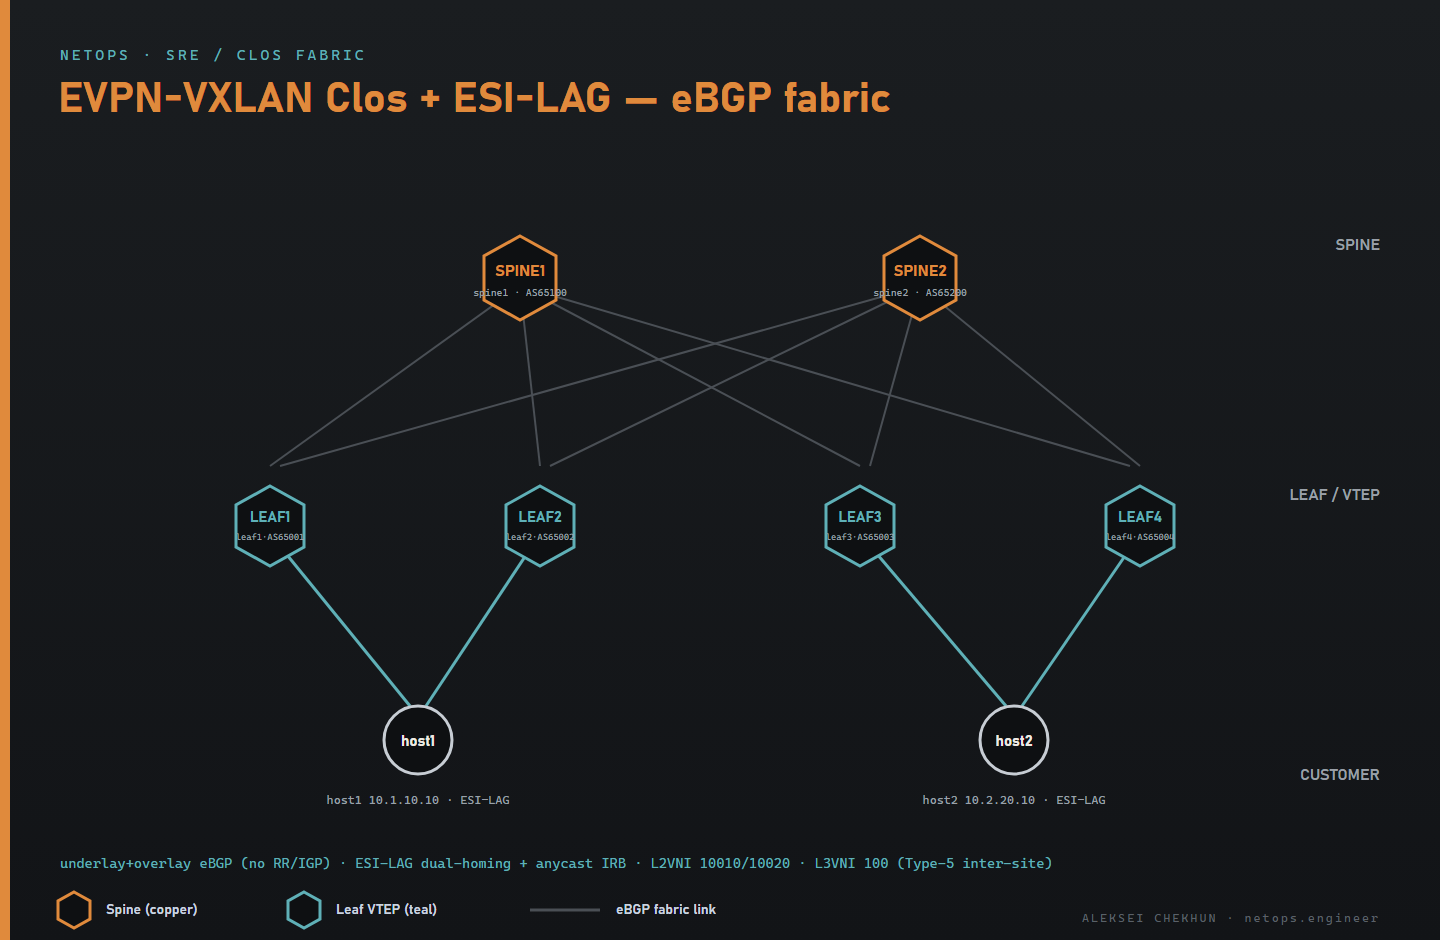
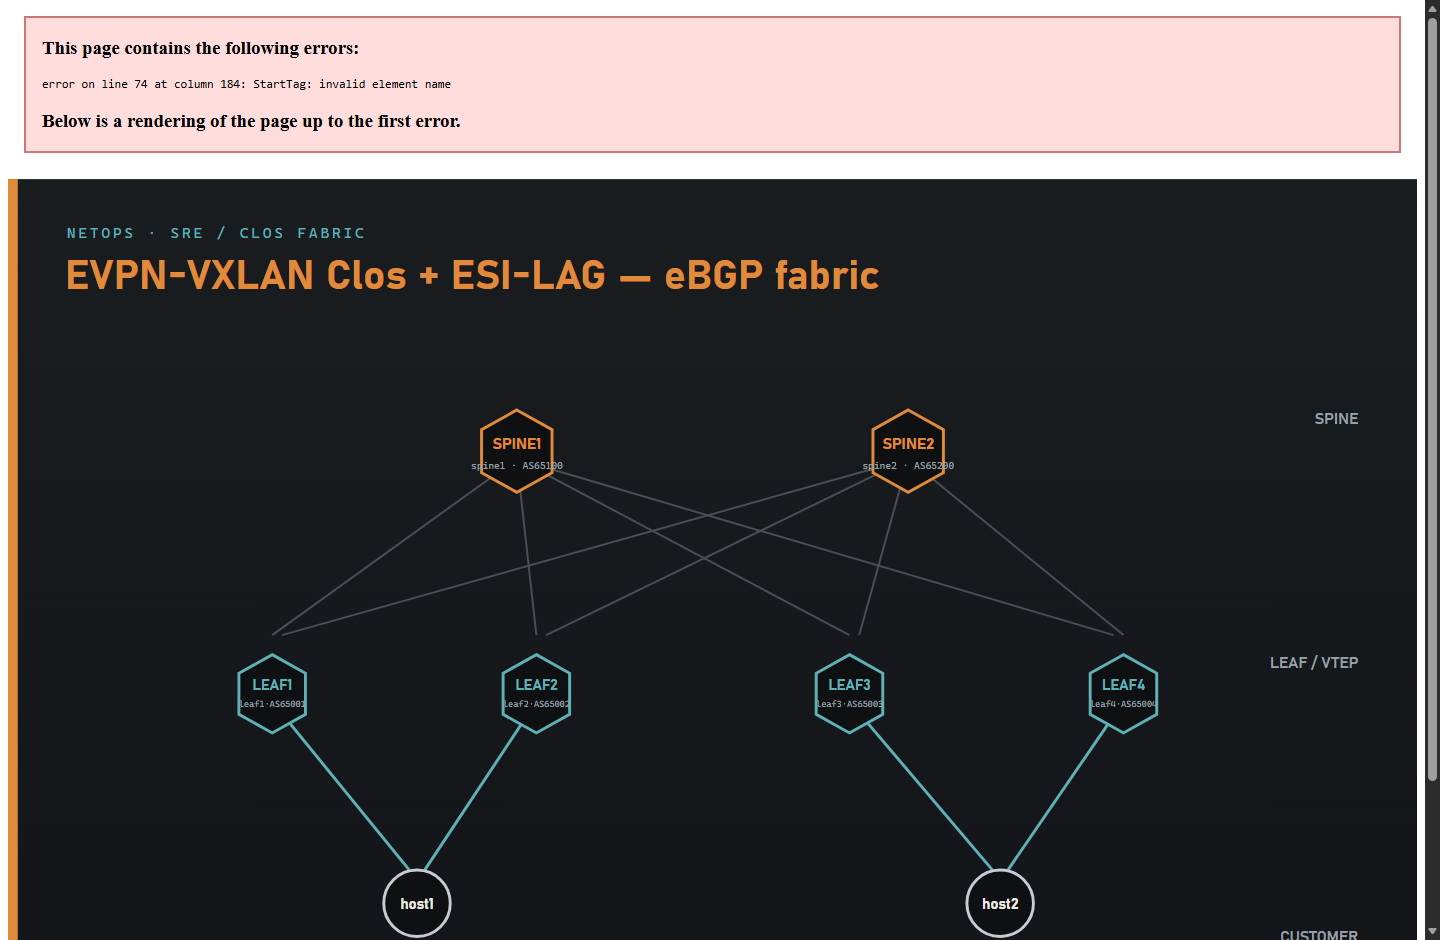
refactor(evpn): pivot to bridged stretched-L2VNI (drop symmetric-IRB-on-ESI)
Root cause of the dual-homed inter-site drops: FRR EVPN-MH does not reliably
sync the host ARP/neighbor across ES peers for the symmetric-IRB routed case
(kernel neigh FAILED on the non-active leaf; both arp-cache entries local-inactive)
-> asymmetric ECMP return hits a leaf with no ARP for the host and is dropped.

Fix: collapse to ONE stretched L2VNI 10010 (10.10.10.0/24). host1<->host2 is now
bridged EVPN Type-2 (MAC-based, no per-leaf ARP-to-route dependency) — the same
machinery as host->gw which was always solid. Full ESI-LAG kept on both sites.

- leaves: L2-only (br10 + vxlan10 vni10010 + anycast gw 10.10.10.1 + ESI bond);
  baked evpn uplink on fabric links; removed L3VNI 100 / VRF CUST / vxlan100
- hosts: same subnet 10.10.10.11 / .22
- safe-reboot probe 10.10.10.11 -> .22 ; compliance asserts ESI-LAG instead of VRF
- README + diagram updated to the bridged stretched-L2VNI model

diff --git a/README.md b/README.md
@@ -3,7 +3,7 @@
 **3-stage EVPN-VXLAN data-center Clos with ESI-LAG multihoming — no kernel modules, no MPLS, runs anywhere Docker runs.**
 
 A self-contained **network operations lab** you can run on a laptop, NAS or EVE-NG host.
-It builds a realistic **DC fabric**: 2 spines + 4 leaves, **eBGP underlay + eBGP EVPN overlay** (no IGP, no route reflectors), **anycast IRB** gateways, **ESI-LAG** dual-homed servers, and **EVPN Type-5** routing between sites — plus an **Ansible pipeline** that reboots the fabric with **proven zero packet loss** (drain → reboot → verify → restore, one device at a time).
+It builds a realistic **DC fabric**: 2 spines + 4 leaves, **eBGP underlay + eBGP EVPN overlay** (no IGP, no route reflectors), **anycast gateway**, **ESI-LAG** dual-homed servers on a **stretched L2VNI** (bridged EVPN Type-2) — plus an **Ansible pipeline** that reboots the fabric with **proven zero packet loss** (drain → reboot → verify → restore, one device at a time).
 
 > **vs. the MPLS variant:** VXLAN is plain UDP/4789 over the eBGP IP underlay. No `mpls_router` kernel module, no `net.mpls.platform_labels` sysctl — it just works wherever Docker runs.
 
@@ -30,12 +30,12 @@ cd ansible && ansible-galaxy collection install -r requirements.yml && ansible-p
 
 Watch it live — open a second terminal while step 4 runs:
 ```bash
-docker exec clab-stage1-host1 ping 10.2.20.10
+docker exec clab-stage1-host1 ping 10.10.10.22
 ```
 The playbook drains → reboots → restores each router one at a time and **asserts 0% packet loss** at the end.
 Tear it all down: `sudo containerlab destroy -t clab/stage1.clab.yml --cleanup`
 
-> **`tools/init-evpn.sh` = verification.** In FRR 10.6 the eBGP spines relay EVPN natively and the L3VNI comes up at boot, so no post-deploy fix is normally needed. The script prints the spine EVPN peers, the Ethernet Segments (ESI-LAG/DF) and the host1->host2 ping. If a boot did not converge, run `FIX=1 bash tools/init-evpn.sh` to restart leaf FRR.
+> **`tools/init-evpn.sh` = verification.** In FRR 10.6 the eBGP spines relay EVPN natively and the L2VNI comes up at boot, so no post-deploy fix is normally needed. The script prints the spine EVPN peers, the Ethernet Segments (ESI-LAG/DF) and the host1↔host2 ping. If a boot did not converge, run `FIX=1 bash tools/init-evpn.sh` to restart leaf FRR.
 
 ---
 
@@ -47,12 +47,12 @@ Tear it all down: `sudo containerlab destroy -t clab/stage1.clab.yml --cleanup`
 
 - **3-stage Clos** — 2 spines (`spine1`,`spine2`), 4 leaves (`leaf1`–`leaf4`). No route reflectors, no IGP.
 - **Spines** (AS `65100` / `65200`) — eBGP EVPN relay; no VTEP, no VRF. Spines don't interconnect.
-- **Leaves** (AS `65001`–`65004`) — **VTEPs** with **anycast IRB**, each dual-uplinked to both spines.
+- **Leaves** (AS `65001`–`65004`) — **VTEPs** with an **anycast gateway**, each dual-uplinked to both spines.
 - **Underlay:** **eBGP** on `/31` fabric links, loopbacks via `redistribute connected`, `maximum-paths ebgp`.
 - **Overlay:** **eBGP `l2vpn-evpn`** on the *same* sessions (spines relay natively in FRR 10.6 — no `retain route-target`).
 - **ECMP:** leaves run `bestpath as-path multipath-relax` (paths via spine1/spine2 have different AS-paths).
-- **Access:** **ESI-LAG** — each server bonds (LACP/802.3ad) to its two leaves as one **Ethernet Segment**; DF election + anycast gateway. No MLAG, no peer-link.
-- **Service:** L2VNI per site (10010 / 10020) + shared **L3VNI 100** (VRF `CUST`); inter-site host traffic routes via **EVPN Type-5**.
+- **Access:** **ESI-LAG** — each server bonds (LACP/802.3ad) to its two leaves as one **Ethernet Segment** (ES1 = leaf1+leaf2, ES2 = leaf3+leaf4); DF election, no MLAG / peer-link.
+- **Service:** one **stretched L2VNI 10010** (`10.10.10.0/24`) + anycast gw `10.10.10.1` on every leaf; **host1↔host2 is bridged EVPN Type-2** across the fabric.
 
 | Node | Role | NOS | ASN | Loopback / VTEP |
 |------|------|-----|-----|-----------------|
@@ -62,10 +62,10 @@ Tear it all down: `sudo containerlab destroy -t clab/stage1.clab.yml --cleanup`
 | leaf2 | Leaf / VTEP (ES1) | VyOS | 65002 | 192.0.2.2 |
 | leaf3 | Leaf / VTEP (ES2) | VyOS | 65003 | 192.0.2.3 |
 | leaf4 | Leaf / VTEP (ES2) | VyOS | 65004 | 192.0.2.4 |
-| host1 | Server, ESI-LAG → leaf1/leaf2 | Linux bond | — | 10.1.10.10 (gw .1) |
-| host2 | Server, ESI-LAG → leaf3/leaf4 | Linux bond | — | 10.2.20.10 (gw .1) |
+| host1 | Server, ESI-LAG → leaf1/leaf2 | Linux bond | — | 10.10.10.11/24 |
+| host2 | Server, ESI-LAG → leaf3/leaf4 | Linux bond | — | 10.10.10.22/24 |
 
-Fabric: `10.0.1.x` = via-spine1, `10.0.2.x` = via-spine2. Site-A = L2VNI 10010 (`10.1.10.0/24`), site-B = L2VNI 10020 (`10.2.20.0/24`).
+Fabric: `10.0.1.x` = via-spine1, `10.0.2.x` = via-spine2. One stretched **L2VNI 10010** = `10.10.10.0/24`, anycast gateway `10.10.10.1`.
 
 ---
 
@@ -78,14 +78,13 @@ Fabric: `10.0.1.x` = via-spine1, `10.0.2.x` = via-spine2. Site-A = L2VNI 10010 (
 | **eBGP EVPN overlay** | all | `docker exec clab-stage1-spine1 vtysh -c "show bgp l2vpn evpn summary"` |
 | **ESI-LAG** Ethernet Segment | leaves | `docker exec clab-stage1-leaf1 vtysh -c "show evpn es"` (Local+Remote, DF) |
 | **LACP bond** on the server | hosts | `docker exec clab-stage1-host1 cat /proc/net/bonding/bond0` (MII up, 2 slaves) |
-| **EVPN Type-5** (inter-site) | leaves | `docker exec clab-stage1-leaf1 vtysh -c "show bgp l2vpn evpn route type prefix"` |
-| **L3VNI 100** (VRF CUST) | leaves | `docker exec clab-stage1-leaf1 vtysh -c "show evpn vni 100"` (State: Up) |
-| **end-to-end** | hosts | `docker exec clab-stage1-host1 ping -c2 10.2.20.10` |
+| **L2VNI 10010** stretched | leaves | `docker exec clab-stage1-leaf1 vtysh -c "show evpn vni 10010"` |
+| **EVPN Type-2** (host MAC/IP) | leaves | `docker exec clab-stage1-leaf1 vtysh -c "show evpn mac vni 10010"` |
+| **end-to-end** | hosts | `docker exec clab-stage1-host1 ping -c2 10.10.10.22` |
 
-**Proof end-to-end** — host1 reaches host2 across the fabric (routed via L3VNI/Type-5 between the two anycast subnets):
+**Proof end-to-end** — host1 reaches host2 across the fabric, bridged over the stretched L2VNI (EVPN Type-2, dual-homed via ESI-LAG at both ends):
 ```bash
-docker exec clab-stage1-host1 ip route        # default via anycast gw 10.1.10.1
-docker exec clab-stage1-host1 ping -c2 10.2.20.10            # host1 -> host2 across the fabric
+docker exec clab-stage1-host1 ping -c2 10.10.10.22            # host1 -> host2 (same subnet, bridged)
 ```
 
 > **Why VXLAN and not MPLS?** VyOS/FRR implement EVPN over VXLAN only (no MPLS data plane for EVPN).
@@ -130,7 +129,7 @@ for n in spine1 spine2 leaf1 leaf2 leaf3 leaf4; do docker exec clab-stage1-$n vt
 
 **Check end-to-end:**
 ```bash
-docker exec clab-stage1-host1 ping -c2 10.2.20.10
+docker exec clab-stage1-host1 ping -c2 10.10.10.22
 ```
 
 **Stop / delete:**
@@ -147,8 +146,8 @@ sudo containerlab destroy -t stage1.clab.yml --cleanup
 ssh vyos@clab-stage1-leaf1
 # useful commands:
 show bgp l2vpn evpn summary        # EVPN peers + prefix count
-show bgp l2vpn evpn route type prefix   # Type-5 EVPN routes
-show ip route vrf CUST             # VRF routing table
+show bgp l2vpn evpn                 # EVPN routes (Type-2 MAC/IP, Type-3 IMET)
+show evpn mac vni 10010            # learned host MACs
 show interfaces vxlan              # VTEP state
 show bgp summary                   # eBGP underlay peers
 ```
@@ -176,7 +175,7 @@ ansible-galaxy collection install -r requirements.yml
 | `facts.yml` | Connectivity check — SSH + BGP summary on every core node | No |
 | `site.yml` | Safe config change — drain → precheck → deploy → postcheck → undrain | Yes |
 | `safe-reboot.yml` | **Zero-loss rolling reboot** — proven by non-stop CE1↔CE2 ping | Reboots only |
-| `compliance-check.yml` | Audit — eBGP (no IGP) / l2vpn-evpn everywhere; VXLAN + VRF CUST + multipath-relax on leaves | No |
+| `compliance-check.yml` | Audit — eBGP (no IGP) / l2vpn-evpn everywhere; VXLAN + ESI-LAG + multipath-relax on leaves | No |
 
 ```bash
 ansible-playbook playbooks/facts.yml                       # connectivity check first
@@ -222,5 +221,6 @@ netops-containerlab-ansible-vxlan/
 ## License
 
 MIT — see `LICENSE`.
+
 
 
